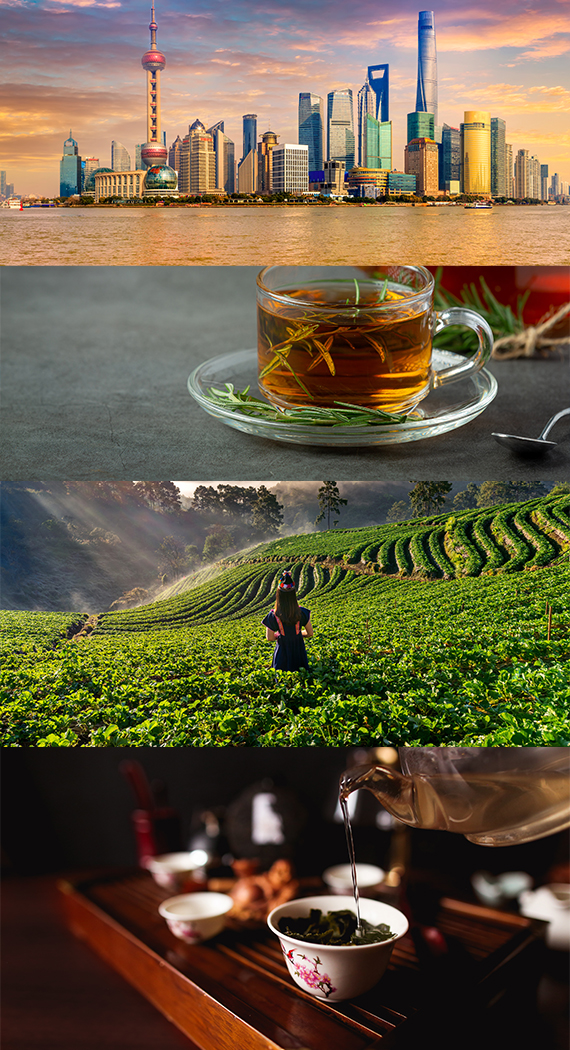
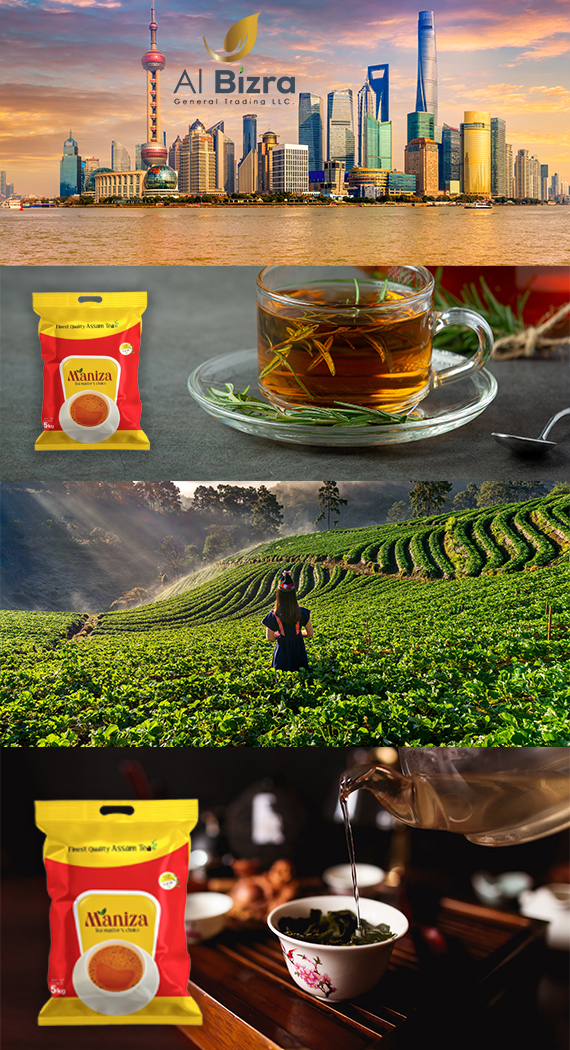
Bug Fix overall

Changed region(s): [[0.0596, 0.7619, 0.3579, 1.0], [0.0596, 0.2743, 0.2684, 0.4267], [0.2982, 0.0, 0.5368, 0.0914]]

diff --git a/about.html b/about.html
@@ -121,13 +121,13 @@
             <div class="left-content">
               <h4>Who we are &amp; What we do?</h4>
               <p style="text-align: justify">
-                Welcome to Ablizra, your premier tea import and export company
+                Welcome to Al Bizra General Trading LLC, your premier tea import and export company
                 based in the vibrant city of Dubai, United Arab Emirates. We are
                 dedicated to providing exceptional quality teas sourced from
                 from renowned tea gardens and estates in Assam state,India,
                 connecting tea lovers and enthusiasts with a diverse range of
                 flavors, aromas, and experiences.<br /><br />
-                At Ablizra, we understand that tea is not just a beverage; it's
+                At Al Bizra General Trading LLC., we understand that tea is not just a beverage; it's
                 a journey, an art, and a way of life. Our passion for tea is
                 deeply rooted in the rich history and cultural significance it
                 holds. We believe that each sip of tea carries with it a story,
@@ -143,10 +143,10 @@
                 We work closely with our trusted tea partners, who share our
                 dedication to sustainable practices, fair trade, and ethical
                 sourcing. This ensures that every cup of tea you enjoy from
-                Ablizra not only tantalizes your taste buds but also supports
+                Al Bizra General Trading LLC. not only tantalizes your taste buds but also supports
                 the well-being of the communities involved in tea production.<br /><br />
                 <strong>Tea for Every Palate</strong><br /><br />
-                At Ablizra, we embrace the diversity of tea and cater to the
+                At Al Bizra General Trading LLC., we embrace the diversity of tea and cater to the
                 preferences of tea connoisseurs, novices, and everyone in
                 between. Whether you seek the delicate flavors of green tea, the
                 robust richness of black tea, the tranquility of herbal
@@ -165,7 +165,7 @@
                 we are committed to providing the guidance you need to enhance
                 your tea-drinking experience.<br />
                 Whether you're a tea lover seeking new flavors or a business
-                looking to import our premium teas, Ablizra is your trusted
+                looking to import our premium teas, Al Bizra General Trading LLC. is your trusted
                 partner. We offer flexible shipping options, ensuring your teas
                 arrive promptly and in pristine condition, no matter where you
                 are in the world. <br /><br /><strong
@@ -176,7 +176,7 @@
                 create meaningful connections. Join our growing community of tea
                 enthusiasts, and embark on a voyage of discovery, appreciation,
                 and rejuvenation through the world of tea.<br />
-                Thank you for choosing Ablizra as your tea destination. We look
+                Thank you for choosing Al Bizra General Trading LLC. as your tea destination. We look
                 forward to serving you and sharing the enchantment of tea, one
                 cup at a time.
               </p>
@@ -218,10 +218,14 @@
             <div class="left-content">
               <h2>M.B. Akbar Ali</h2><br><div class="founder">
               <p style="text-align: justify">
-                <strong>Upon completing secondary school, he embarked on a remarkable journey of exploration, venturing into diverse career
+                <strong>MB Akbar Ali, born on July 20, 1967, hails from a devout Muslim family. His educational journey led him to St.
+                Sylvesters College in Kandy, Sri Lanka. With a passion for learning and a strong foundation, Akbar Ali embarked on a
+                path filled with experiences that shaped his character and set the stage for his future endeavors.Upon completing
+                secondary school, he embarked on a remarkable journey of exploration, venturing into diverse career
                 paths from the tender age of 16. Driven by an insatiable curiosity and an entrepreneurial spirit, he fearlessly ventured
                 into numerous business ventures, leaving no stone unturned. Amongst the array of endeavors he pursued, one particular
-                industry served as the bedrock for his success—the stationary supply business.Within the realm of stationary supply, he discovered not only a passion but also a strong foundation upon which to build
+                industry served as the bedrock for his success—the stationary supply business.Within the realm of stationary supply, he
+                discovered not only a passion but also a strong foundation upon which to build
                 his entrepreneurial empire. With an astute eye for quality and an unwavering commitment to customer satisfaction, he
                 began importing and supplying stationary products from countries renowned for their manufacturing prowess, such as China
                 and the United Arab Emirates. Through meticulous sourcing and careful selection, he ensured a wide range of high-quality
@@ -244,7 +248,7 @@
                 to those in need, ensuring that no one went hungry during these trying times. This selfless act of solidarity showcased
                 his genuine concern for the welfare of others and solidified his reputation as a caring and responsible business leader.
                 Beyond his contributions to the stationary industry, he has expanded his influence and impact through his role as the
-                CEO of Jetway Marketing Pvt Ltd. This leadership position has allowed him to shape the company's direction, implement
+                <strong>CEO of Jetway Marketing Pvt Ltd.</strong> This leadership position has allowed him to shape the company's direction, implement
                 innovative strategies, and foster a culture of excellence and integrity. Furthermore, his involvement in Sri Lankan
                 politics under the name Nazar Haji has granted him the opportunity to actively engage in public service and contribute
                 to the betterment of society on a larger scale.<br><br>

diff --git a/asm-single.html b/asm-single.html
@@ -107,12 +107,14 @@
             <div class="col-md-6">
               <div class="left-content">
                 <h3>Al Bizra Assam Tea 5Kg</h3><br>
+                <h4>[Available in Karak Black Tea & Samover finest dust]</h4><br>
                 <div class="single_desc">
                 <p>Indulge in the rich flavors and aromatic delights of our Assam Premium Tea. Sourced from the lush tea gardens of the
                 Assam region in India, our tea leaves are carefully handpicked and processed to preserve their exquisite quality. Known
                 for its distinct malty flavor and robust character, Assam Premium Tea offers a truly invigorating and satisfying tea
                 experience.
                 </p>
+                <p>Catering Pack (Per Carton 30Kg) : 6 Bags x 5Kg</p>
                 </div>
                 <h4>Benefits of Assam Tea</h4>
                 <div class="bene">
